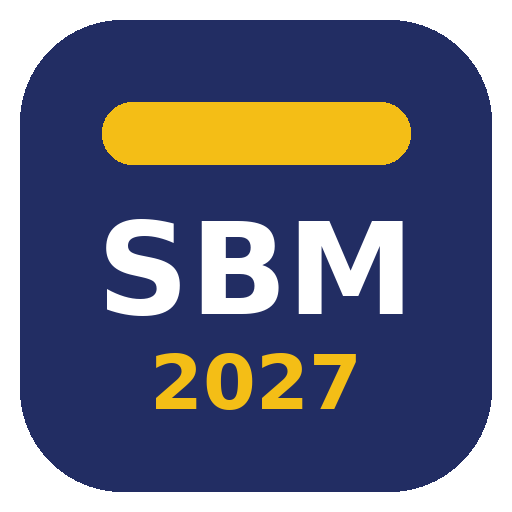
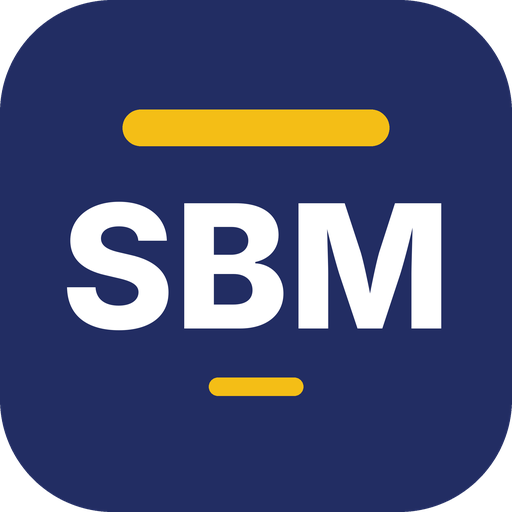
Identitas universal: judul tab, pratinjau tautan (Open Graph + gambar), ikon tanpa tahun
Claude-Session: https://claude.ai/code/session_01UbXGC8ZKgWahc3qGHwNdAF

diff --git a/index.html b/index.html
@@ -3,13 +3,23 @@
 <head>
   <meta charset="utf-8">
   <meta name="viewport" content="width=device-width, initial-scale=1, viewport-fit=cover">
-  <title>SBM 2027 · Standar Biaya Masukan TA 2027</title>
-  <meta name="description" content="Baca Standar Biaya Masukan TA 2027 (PMK 54/2026, KMK 296/2026) dan TA 2026 (PMK 32/2025) tanpa membuka PDF: honorarium, perjalanan dinas, fasilitas pegawai, barang dan jasa, pemeliharaan, dan bantuan.">
+  <title>Standar Biaya Masukan · Cek SBM</title>
+  <meta name="description" content="Baca Standar Biaya Masukan tanpa membuka PDF: satuan biaya per provinsi, rute perjalanan dinas, dan alat hitung honorarium, invoice, serta pajak. Tersedia TA 2026 dan TA 2027.">
+  <meta property="og:type" content="website">
+  <meta property="og:site_name" content="Cek SBM">
+  <meta property="og:title" content="Standar Biaya Masukan · Cek SBM">
+  <meta property="og:description" content="Satuan biaya, rute perjalanan dinas, dan alat hitung dalam satu aplikasi. TA 2026 dan TA 2027.">
+  <meta property="og:url" content="https://cek-sbm.vercel.app/">
+  <meta property="og:image" content="https://cek-sbm.vercel.app/icons/og-image.png">
+  <meta property="og:image:width" content="1200">
+  <meta property="og:image:height" content="630">
+  <meta property="og:locale" content="id_ID">
+  <meta name="twitter:card" content="summary_large_image">
   <meta name="theme-color" content="#222D63">
   <meta name="mobile-web-app-capable" content="yes">
   <meta name="apple-mobile-web-app-capable" content="yes">
   <meta name="apple-mobile-web-app-status-bar-style" content="black-translucent">
-  <meta name="apple-mobile-web-app-title" content="SBM 2027">
+  <meta name="apple-mobile-web-app-title" content="Cek SBM">
   <link rel="manifest" href="manifest.webmanifest">
   <link rel="icon" type="image/png" href="icons/favicon-64.png">
   <link rel="apple-touch-icon" href="icons/apple-touch-icon.png">

diff --git a/js/app.js b/js/app.js
@@ -1656,7 +1656,7 @@ function initTips() {
 /* ---------------- Mulai ---------------- */
 async function start() {
   applyYear(initYear());
-  document.title = `SBM ${Y.y} · Standar Biaya Masukan TA ${Y.y}`;
+  document.title = 'Standar Biaya Masukan · Cek SBM';
   shell();
   initTips();
   $('#main').innerHTML = `<div class="empty">Memuat data…</div>`;

diff --git a/sw.js b/sw.js
@@ -1,5 +1,5 @@
 // Service worker: aplikasi tetap bisa dibuka tanpa internet
-const VERSION = 'sbm27-v39-202611201420';
+const VERSION = 'sbm27-v40-202611201430';
 const SHELL = [
   './', 'index.html', 'css/app.css', 'manifest.webmanifest',
   'js/app.js', 'js/store.js', 'js/search.js', 'js/catalog.js', 'js/icons.js',

diff --git a/scripts/build_icons.py b/scripts/build_icons.py
@@ -1,0 +1,63 @@
+"""Ikon aplikasi dan gambar pratinjau tautan (Open Graph). Jalankan: python3 scripts/build_icons.py"""
+from PIL import Image, ImageDraw, ImageFont
+import os
+ROOT = os.path.dirname(os.path.dirname(os.path.abspath(__file__)))
+NAVY, GOLD, WHITE, RED = (34, 45, 99), (244, 190, 22), (255, 255, 255), (218, 45, 29)
+FB = '/usr/share/fonts/opentype/inter/Inter-ExtraBold.otf'
+FR = '/usr/share/fonts/opentype/inter/Inter-SemiBold.otf'
+
+def icon(size, maskable=False, radius=0.22):
+    S = size * 4
+    im = Image.new('RGBA', (S, S), (0, 0, 0, 0))
+    d = ImageDraw.Draw(im)
+    if maskable:
+        d.rectangle([0, 0, S, S], fill=NAVY)
+        pad = int(S * 0.16)
+    else:
+        d.rounded_rectangle([0, 0, S - 1, S - 1], radius=int(S * radius), fill=NAVY)
+        pad = int(S * 0.08)
+    inner = S - 2 * pad
+    # garis emas di atas, seperti kop dokumen
+    bw, bh = int(inner * 0.62), max(4, int(inner * 0.085))
+    bx, by = (S - bw) // 2, pad + int(inner * 0.16)
+    d.rounded_rectangle([bx, by, bx + bw, by + bh], radius=bh // 2, fill=GOLD)
+    f = ImageFont.truetype(FB, int(inner * 0.40))
+    t = 'SBM'
+    tb = d.textbbox((0, 0), t, font=f)
+    tw, th = tb[2] - tb[0], tb[3] - tb[1]
+    ty = by + bh + int(inner * 0.13)
+    d.text(((S - tw) // 2 - tb[0], ty - tb[1]), t, font=f, fill=WHITE)
+    # garis tipis emas di bawah teks
+    uy = ty + th + int(inner * 0.11)
+    uw = int(inner * 0.22)
+    d.rounded_rectangle([(S - uw) // 2, uy, (S + uw) // 2, uy + max(3, bh // 2)], radius=bh // 4, fill=GOLD)
+    return im.resize((size, size), Image.LANCZOS)
+
+icons = os.path.join(ROOT, 'icons')
+icon(512).save(os.path.join(icons, 'icon-512.png'), optimize=True)
+icon(192).save(os.path.join(icons, 'icon-192.png'), optimize=True)
+icon(64, radius=0.24).save(os.path.join(icons, 'favicon-64.png'), optimize=True)
+icon(512, maskable=True).save(os.path.join(icons, 'maskable-512.png'), optimize=True)
+a = icon(180, maskable=True)
+a.save(os.path.join(icons, 'apple-touch-icon.png'), optimize=True)
+
+# Gambar pratinjau tautan 1200x630
+W, H = 1200, 630
+og = Image.new('RGB', (W, H), NAVY)
+d = ImageDraw.Draw(og)
+d.rectangle([0, 0, W, 14], fill=GOLD)
+d.rectangle([0, 14, W, 18], fill=RED)
+d.rounded_rectangle([80, 140, 320, 380], radius=56, fill=(48, 61, 128))
+ic = icon(220)
+og.paste(ic, (90, 150), ic)
+ft = ImageFont.truetype(FB, 64)
+fs = ImageFont.truetype(FR, 30)
+fu = ImageFont.truetype(FR, 28)
+d.text((350, 170), 'Standar Biaya', font=ft, fill=WHITE)
+d.text((350, 245), 'Masukan', font=ft, fill=WHITE)
+d.text((352, 340), 'Satuan biaya, rute perjalanan dinas, dan alat hitung', font=fs, fill=(214, 220, 240))
+d.text((352, 382), 'dalam satu aplikasi. TA 2026 dan TA 2027.', font=fs, fill=(214, 220, 240))
+d.rounded_rectangle([90, 500, 400, 556], radius=28, fill=GOLD)
+d.text((118, 511), 'cek-sbm.vercel.app', font=fu, fill=NAVY)
+og.save(os.path.join(icons, 'og-image.png'), optimize=True)
+print('ok')
